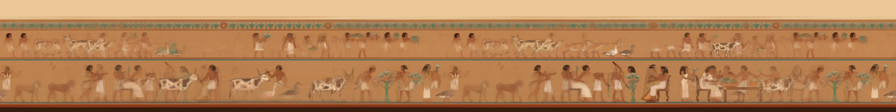
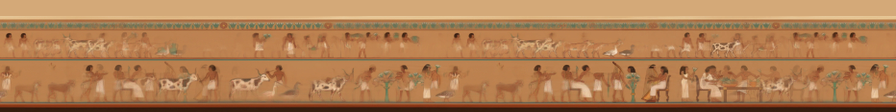
junior's wall tokens are sampled from the new wall face
Claude-Session: https://claude.ai/code/session_01F6g2diRzQCzQwEf9zsEEGH

Changed region(s): [[0.0, 0.0, 1.0, 0.1607]]

diff --git a/src/app/SiteMap/tileMaterials.ts b/src/app/SiteMap/tileMaterials.ts
@@ -70,9 +70,9 @@ export const tierPalette: Record<Tileset, TierPalette> = {
   },
   // A nobleman's painted house: light orange sandstone, about as light as the merchant's limestone and told
   // apart by its hue and its finish — crisp, dressed, decorated — under a mid-tone painted plaster wall whose
-  // murals read, copper and verdigris as its colour (docs/game-design/visual-direction.md). The floor tokens
-  // are the repainted floor's; the wall tokens and `prop` are the `Topology/Palette moodboard` proposal until
-  // the wall face and the props land.
+  // murals read, copper and verdigris as its colour (docs/game-design/visual-direction.md). The floor and wall
+  // tokens are the repainted floor's and wall face's; `prop` is the `Topology/Palette moodboard` proposal
+  // until the props land.
   junior: {
     bed: "#cf9863",
     slab: "#e2a86f",
@@ -80,12 +80,12 @@ export const tierPalette: Record<Tileset, TierPalette> = {
     slabLo: "#dca26b",
     joint: "#a9784c",
     accent: METALS.junior.accent,
-    wall: "#c9895a",
-    wallTop: "#ecc898",
-    wallBase: "#3a1c0e",
+    wall: "#b88050",
+    wallTop: "#d4a978",
+    wallBase: "#381d0e",
     // Rooms are lit, as the merchant's are: the night is a light hand in the rank's own near-black.
     shade: "rgba(36,23,8,0.3)",
-    faceNight: 0.4,
+    faceNight: 0.56,
     lamp: 1,
     prop: "#e0c193",
     propDark: "#9c7442",
